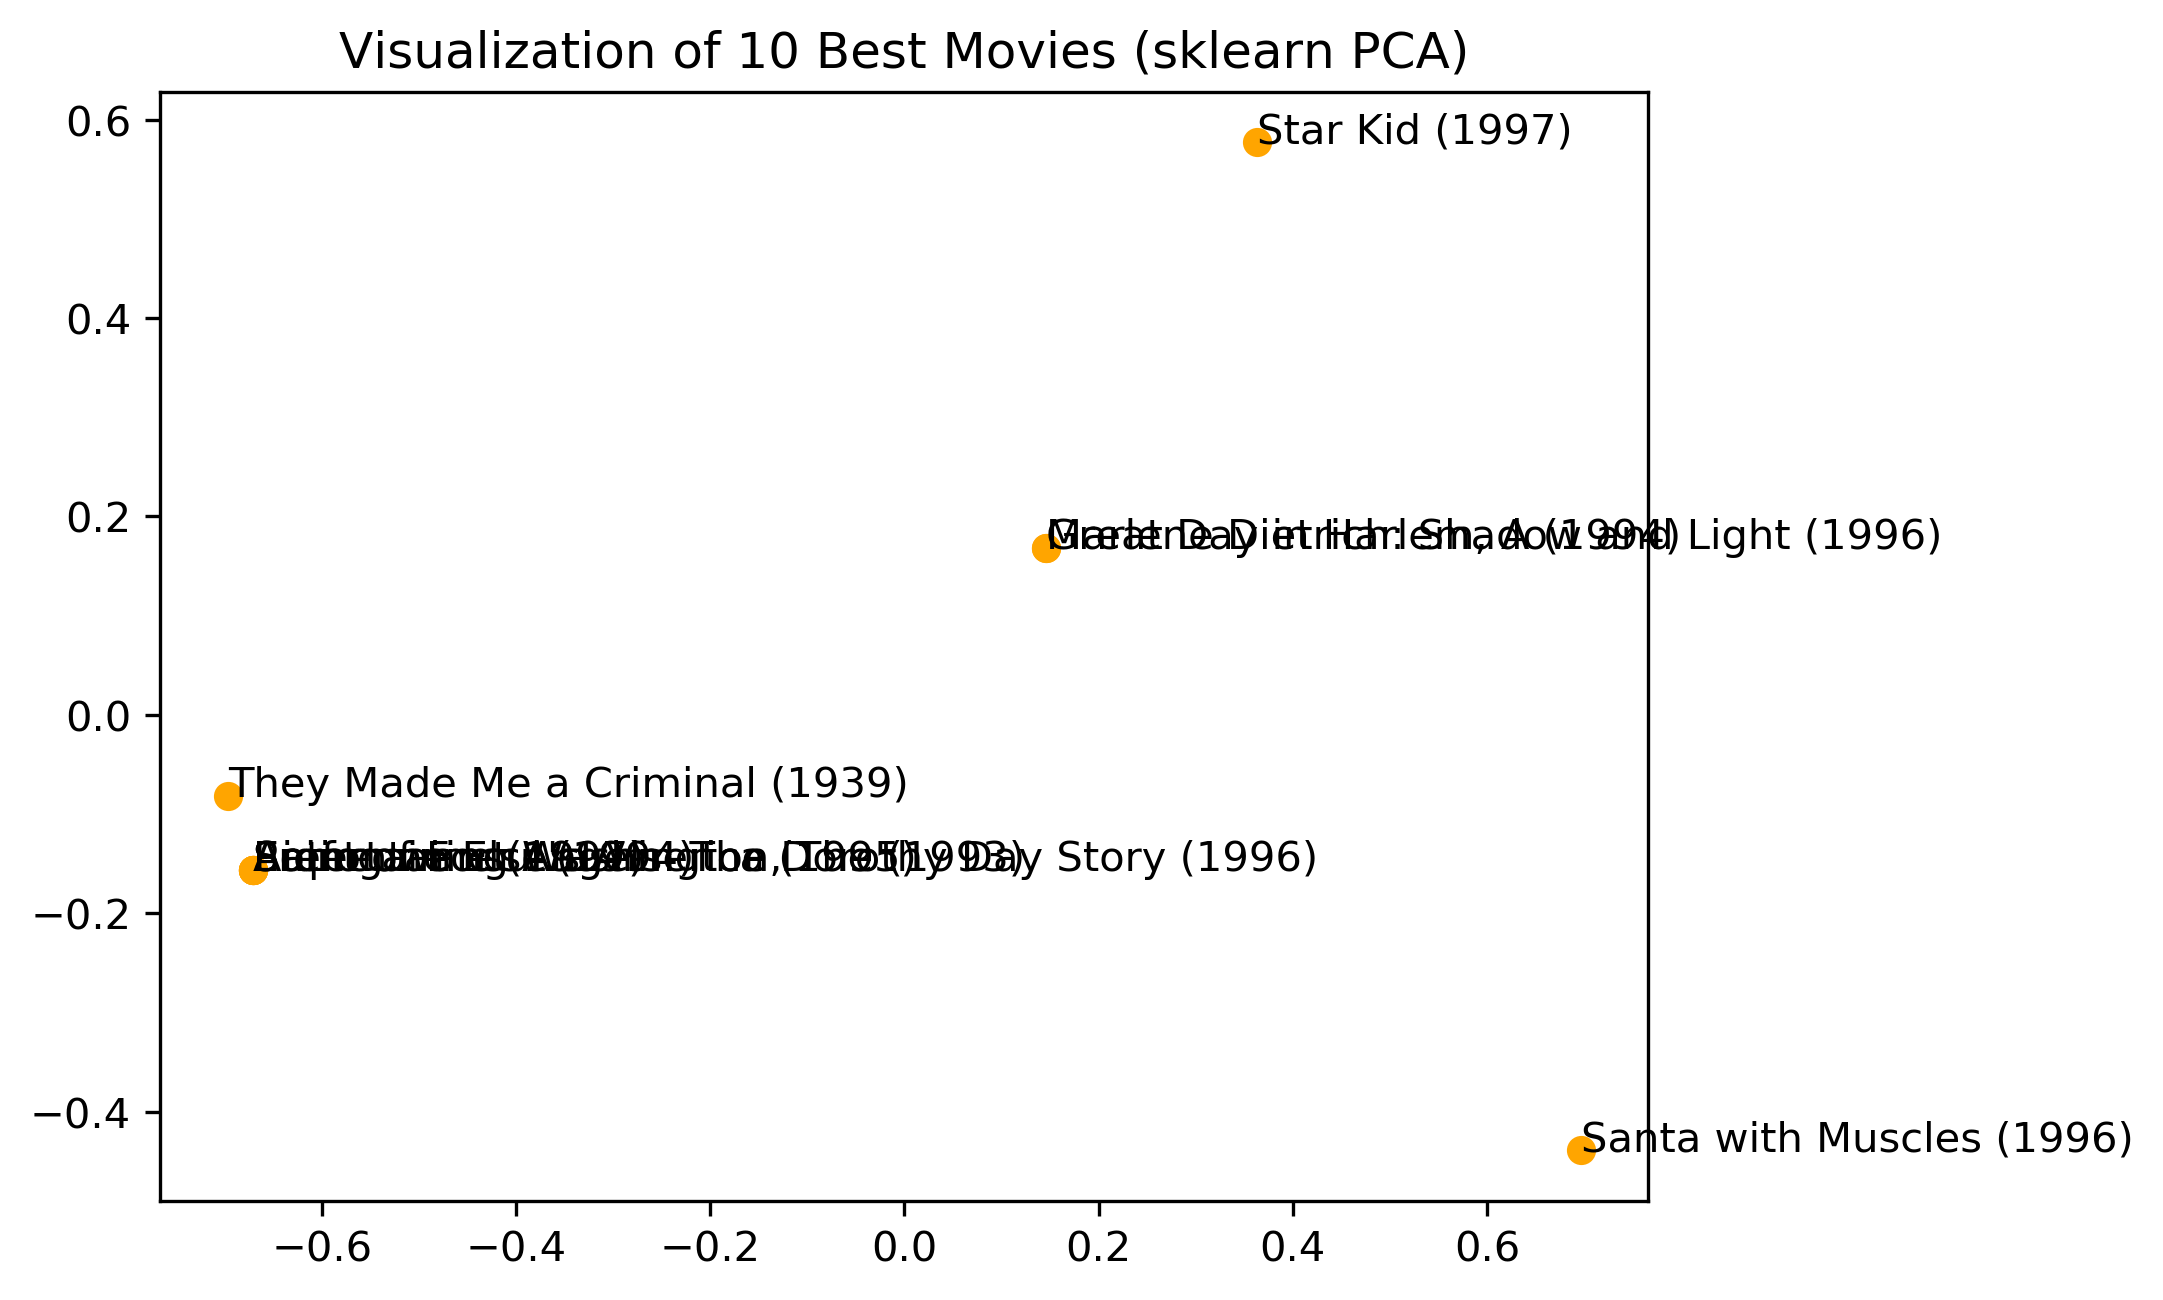
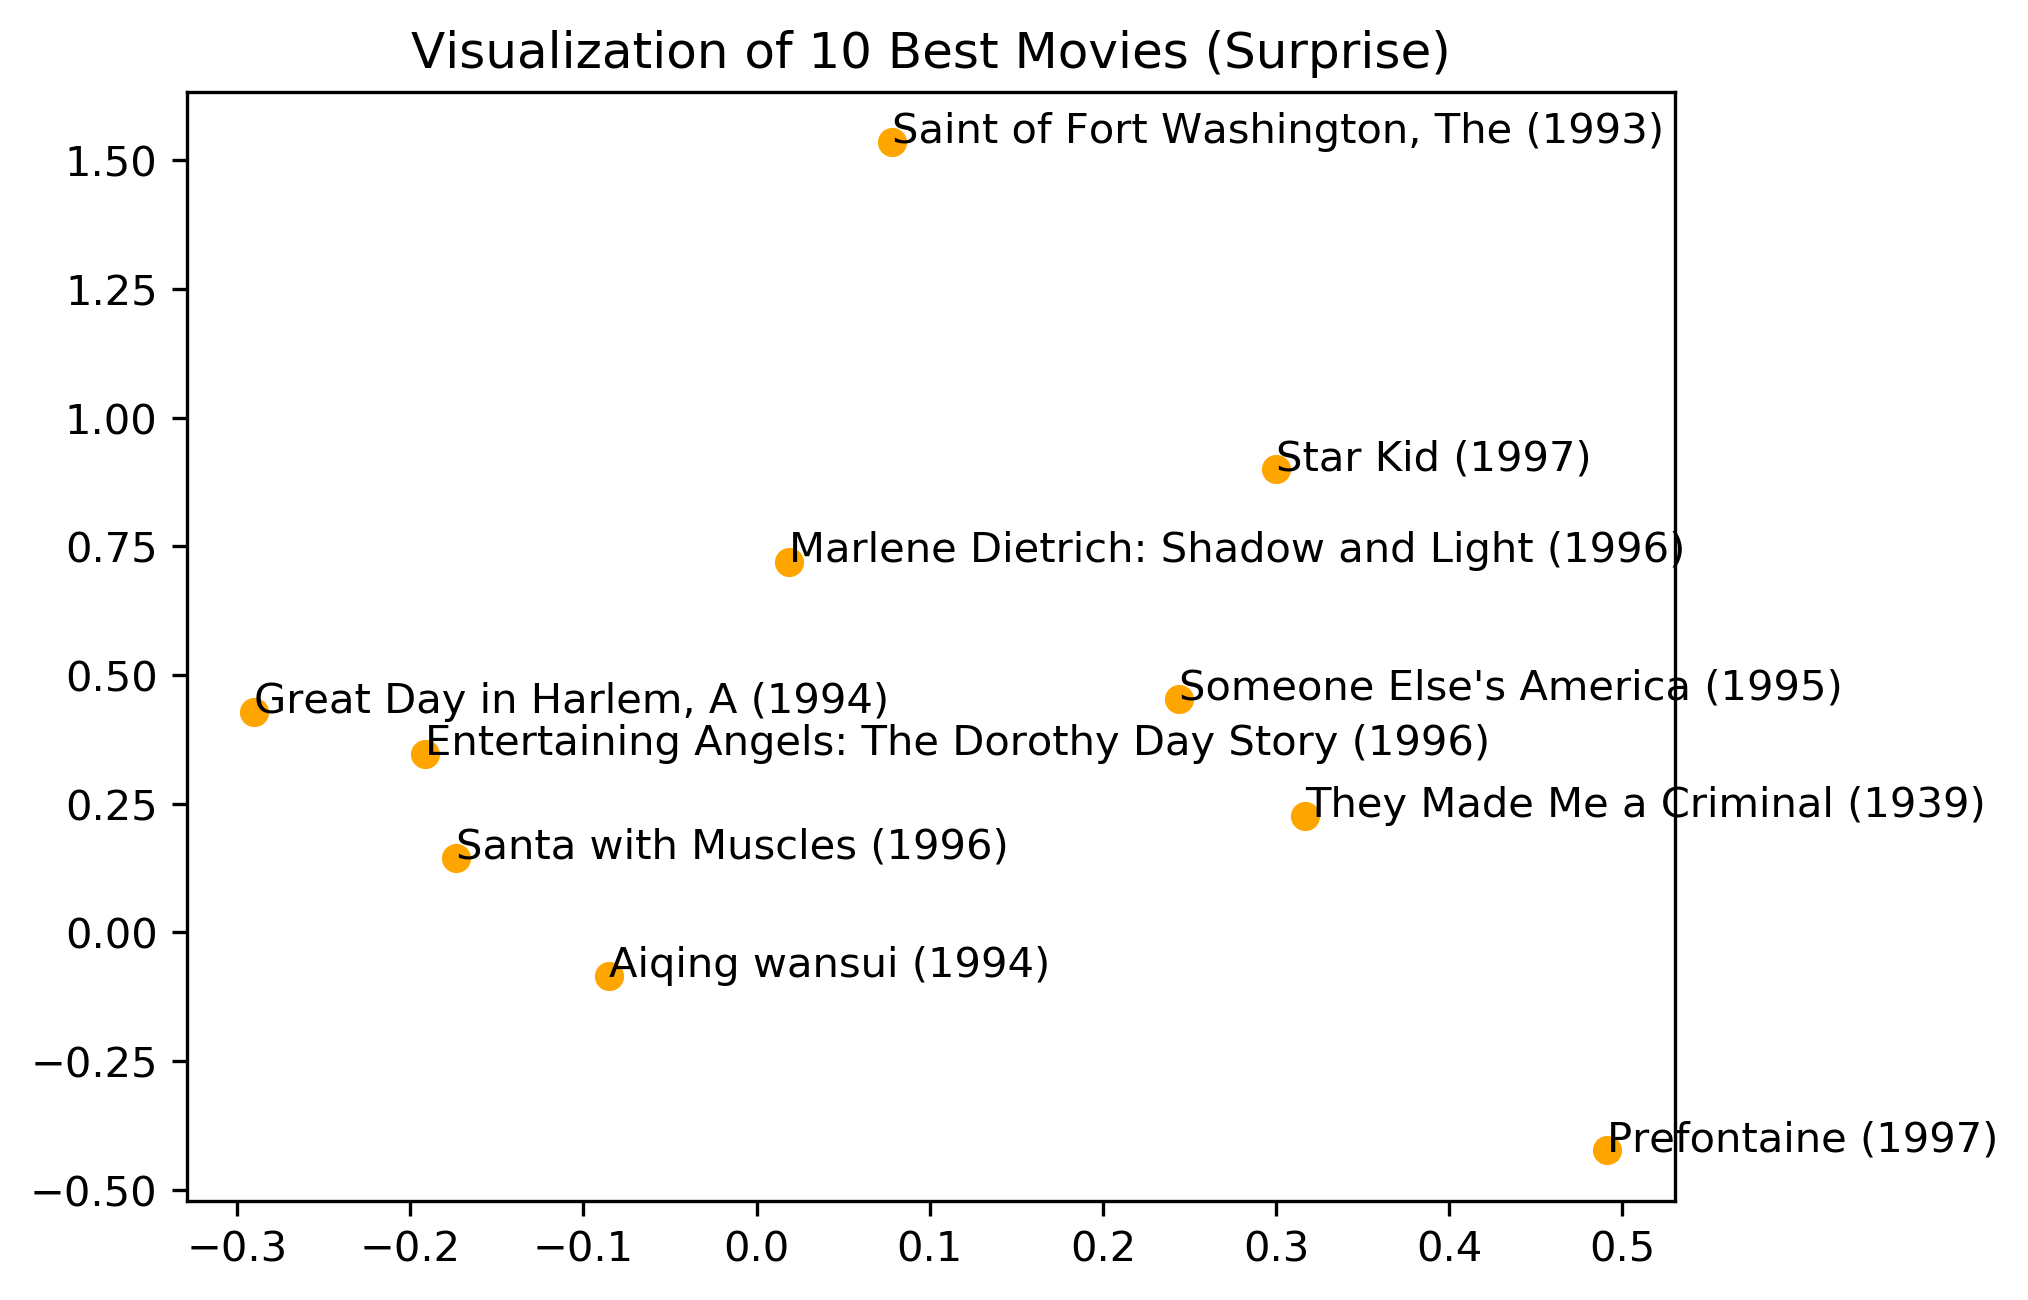
Add third matrix factorization implementation (Surprise)

diff --git a/matrixfac_method3.py b/matrixfac_method3.py
@@ -1,27 +1,36 @@
 # Third method for matrix factorization:
-# off-the-shelf implementation using sklearn.decomposition.
+# off-the-shelf implementation using Surprise.
 
 import numpy as np
 import matplotlib.pyplot as plt
 from helper import load_data, get_popular_best_movies
-from sklearn.preprocessing import scale
-from sklearn.decomposition import PCA
-
+from surprise import SVD, Dataset, Reader, accuracy
 
 def main():
 
-  # Load data from txt files.
-  data, titles, movies_data, genres = load_data('data/data.txt', 'data/movies.txt')
-  Y_train = np.loadtxt('data/train.txt').astype(int)
-  Y_test = np.loadtxt('data/test.txt').astype(int)
+  # Load the movielens-100k dataset.
+  data, titles, movies_data, genres = load_data('data/data.txt', 
+    'data/movies.txt')
+  reader = Reader(line_format='user item rating', sep='\t')
+  dataset = Dataset.load_from_file('data/data.txt', reader=reader)
+  trainset = dataset.build_full_trainset()
+
+  test_data = Dataset.load_from_file('data/test.txt', reader=reader)                                
+  testset = test_data.construct_testset(raw_testset=test_data.raw_ratings)    
 
   # ----------------------------------------------
-  # LEARN U AND V AND PROJECT TO 2D
+  # LEARN U AND V & PROJECT TO 2D
   # ----------------------------------------------
 
-  pca = PCA(n_components=2)
-  V_proj = pca.fit_transform(movies_data)
-  V_proj = V_proj.T
+  # Use SVD algorithm.
+  algo = SVD(n_factors=2, n_epochs=300)
+
+  algo.fit(trainset)
+  test_pred = algo.test(testset)
+
+  accuracy.rmse(test_pred)
+
+  V_proj = algo.qi.T
 
   # ----------------------------------------------
   # PLOT PROJECTED U AND V
@@ -31,7 +40,7 @@ def main():
   for m in [0, 49, 68, 70, 94, 97, 126, 248, 312, 385]:
     plt.plot(V_proj[0, m], V_proj[1, m], 'o', color='#ffa500')
     plt.annotate(titles[m].strip('"'), (V_proj[0, m], V_proj[1, m]))
-  plt.title('Visualization of 10 Movies (sklearn PCA)')
+  plt.title('Visualization of 10 Movies (Surprise)')
   plt.savefig('images/method3_vis_our10movies.png', bbox_inches='tight', dpi=300)
 
   # Get the indices (movie ID - 1) of the 10 most popular and 10 best movies.
@@ -42,7 +51,7 @@ def main():
   for m in most_pop_movies:
     plt.plot(V_proj[0, m], V_proj[1, m], 'o', color='#ffa500')
     plt.annotate(titles[m].strip('"'), (V_proj[0, m], V_proj[1, m]))
-  plt.title('Visualization of 10 Most Popular Movies (sklearn PCA)')
+  plt.title('Visualization of 10 Most Popular Movies (Surprise)')
   plt.savefig('images/method3_vis_10mostpopular.png', bbox_inches='tight', dpi=300)
 
   # Plot the 10 best movies.
@@ -50,7 +59,7 @@ def main():
   for m in best_movies:
     plt.plot(V_proj[0, m], V_proj[1, m], 'o', color='#ffa500')
     plt.annotate(titles[m].strip('"'), (V_proj[0, m], V_proj[1, m]))
-  plt.title('Visualization of 10 Best Movies (sklearn PCA)')
+  plt.title('Visualization of 10 Best Movies (Surprise)')
   plt.savefig('images/method3_vis_10best.png', bbox_inches='tight', dpi=300)
 
   # Plot 10 Western movies.
@@ -58,7 +67,7 @@ def main():
   for m in (np.where([movies_data[:, 18] == 1])[1])[:10]:
     plt.plot(V_proj[0, m], V_proj[1, m], 'o', color='#ffa500')
     plt.annotate(titles[m].strip('"'), (V_proj[0, m], V_proj[1, m]))
-  plt.title('Visualization of 10 Western Movies (sklearn PCA)')
+  plt.title('Visualization of 10 Western Movies (Surprise)')
   plt.savefig('images/method3_vis_western.png', bbox_inches='tight', dpi=300)
 
   # Plot 10 Animation movies.
@@ -66,7 +75,7 @@ def main():
   for m in (np.where([movies_data[:, 3] == 1])[1])[:10]:
     plt.plot(V_proj[0, m], V_proj[1, m], 'o', color='#ffa500')
     plt.annotate(titles[m].strip('"'), (V_proj[0, m], V_proj[1, m]))
-  plt.title('Visualization of 10 Animation Movies (sklearn PCA)')
+  plt.title('Visualization of 10 Animation Movies (Surprise)')
   plt.savefig('images/method3_vis_animation.png', bbox_inches='tight', dpi=300)
 
   # Plot 10 Film-Noir movies.
@@ -74,7 +83,7 @@ def main():
   for m in (np.where([movies_data[:, 10] == 1])[1])[:10]:
     plt.plot(V_proj[0, m], V_proj[1, m], 'o', color='#ffa500')
     plt.annotate(titles[m].strip('"'), (V_proj[0, m], V_proj[1, m]))
-  plt.title('Visualization of 10 Film-Noir Movies (sklearn PCA)')
+  plt.title('Visualization of 10 Film-Noir Movies (Surprise)')
   plt.savefig('images/method3_vis_filmnoir.png', bbox_inches='tight', dpi=300)
 
 
